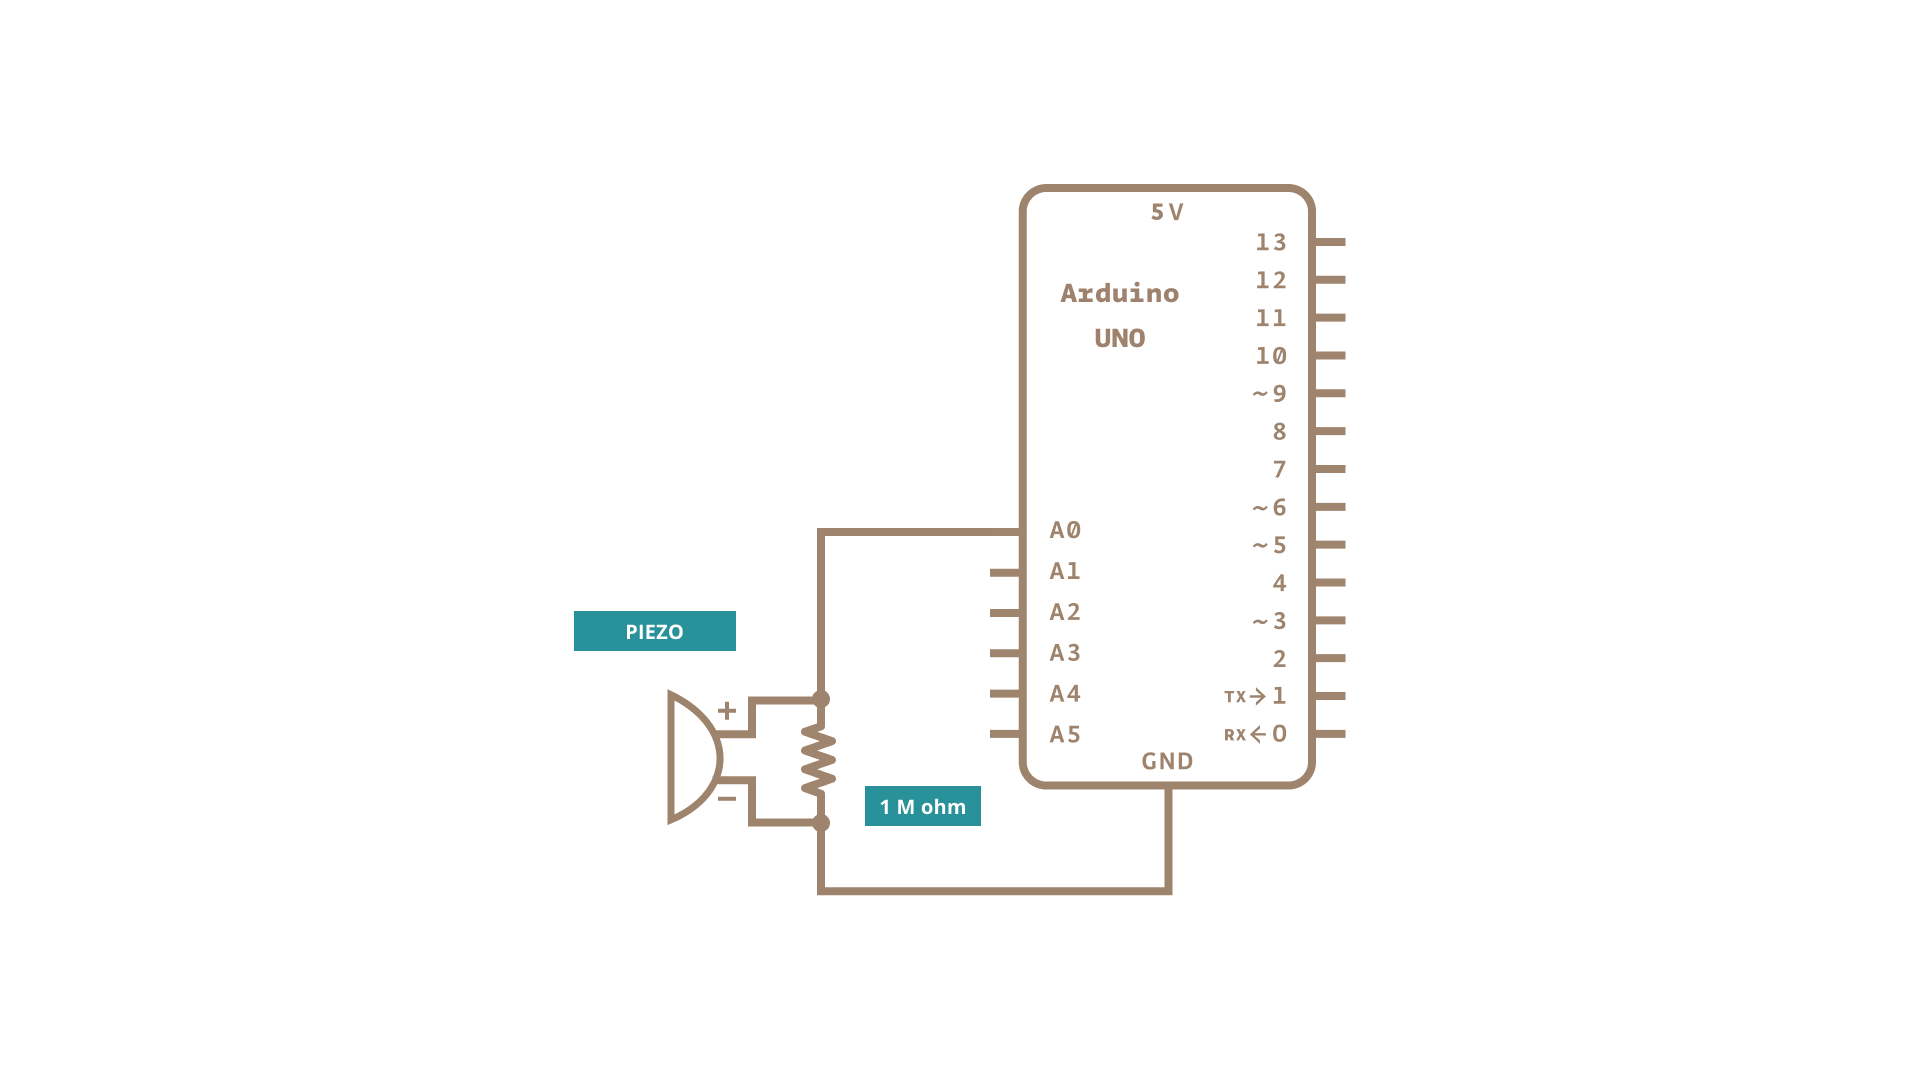
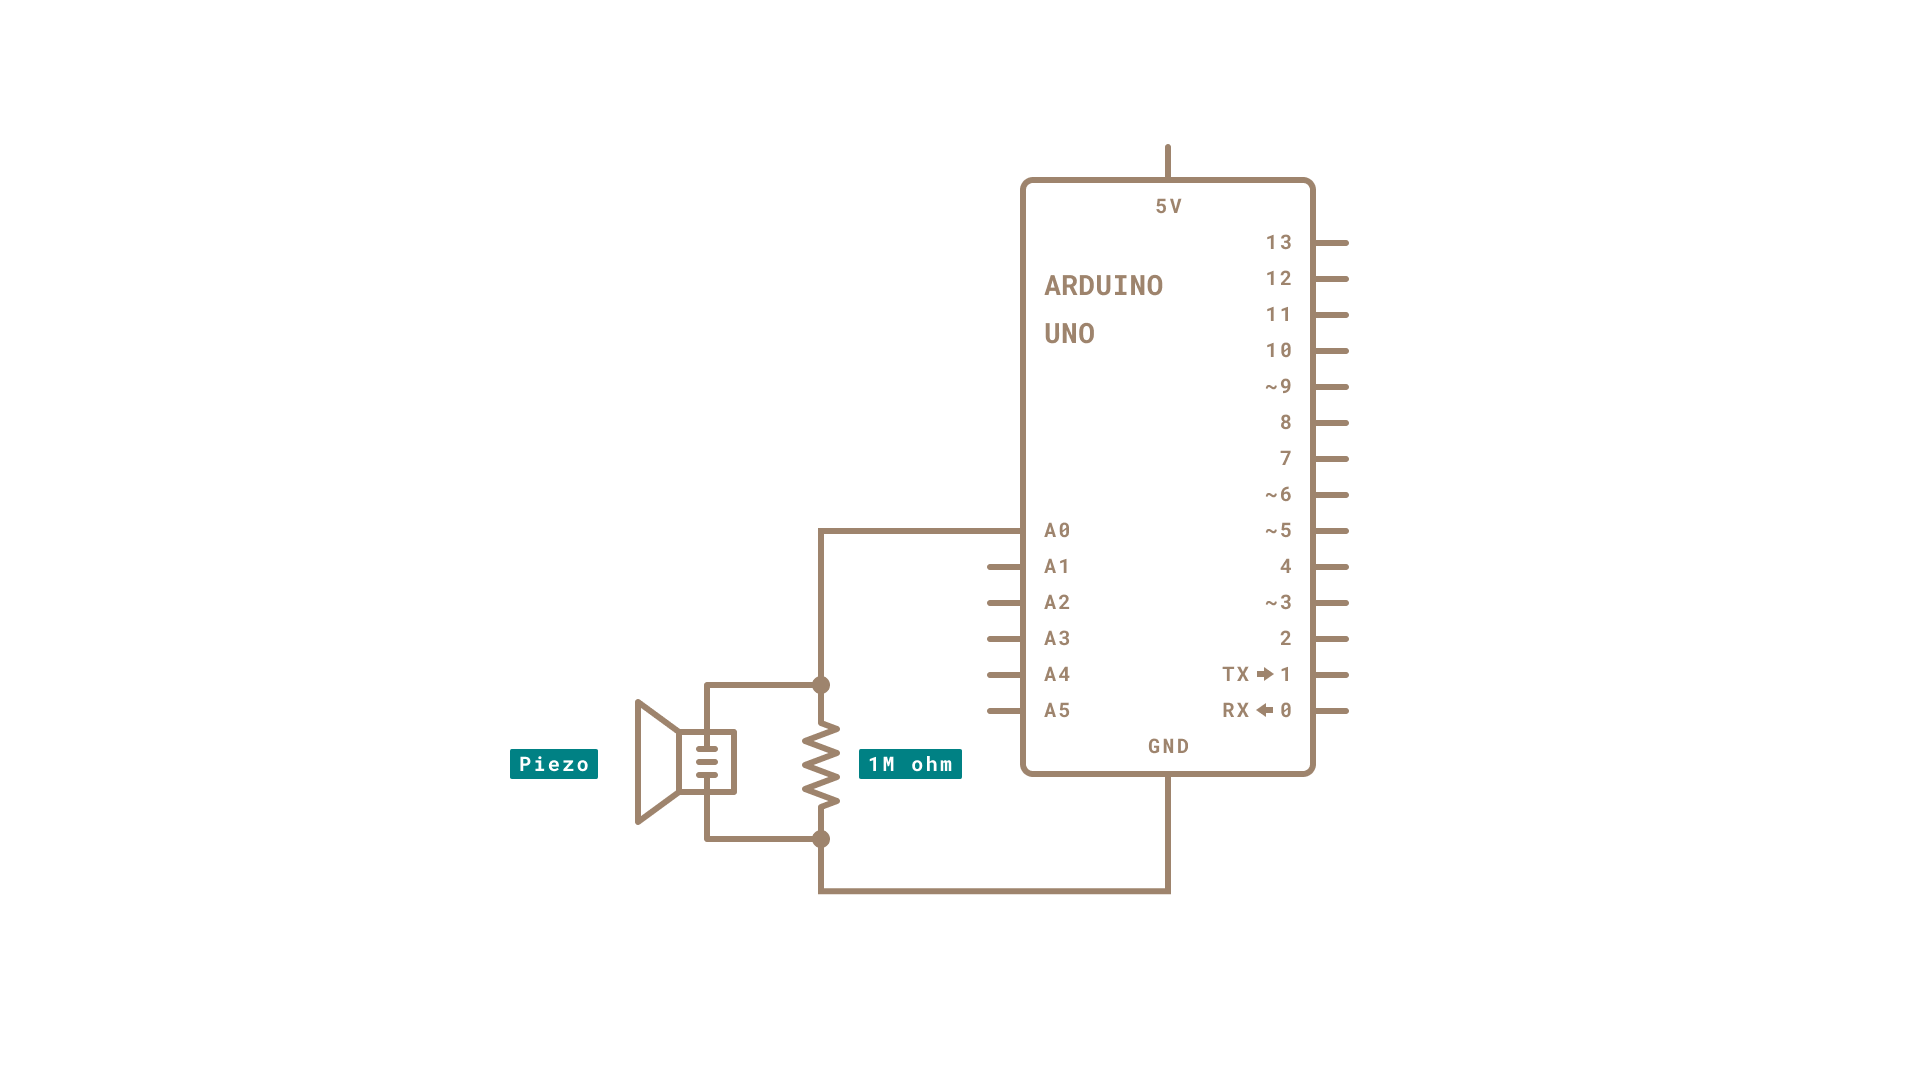
updated knock tutorial

diff --git a/content/built-in-examples/06.sensors/Knock/Knock.md b/content/built-in-examples/06.sensors/Knock/Knock.md
@@ -33,18 +33,16 @@ Open the serial monitor to see this text.
 
 Piezos are **polarized**, meaning that voltage passes through them (or out of them) in a specific direction. Connect the black wire (the lower voltage) to ground and the red wire (the higher voltage) to analog pin 0. Additionally, connect a 1-megohm resistor in parallel to the Piezo element to limit the voltage and current produced by the piezo and to protect the analog input.
 
-It is possible to acquire piezo elements without a plastic housing. These will  look like a metallic disc, and are easier to use as input sensors. PIezo sensors work best when firmly pressed against, taped, or glued their sensing surface.
-
+It is possible to acquire piezo elements without a plastic housing. These will  look like a metallic disc, and are easier to use as input sensors. Piezo sensors work best when firmly pressed against, taped, or glued their sensing surface.
 
 ![](assets/circuit.png)
 
 
 ### Schematic
 
+The piezo is attached to analog pin 0 with a 1 Megohm resistor in between the two legs. The placement of the resistor is used to save the piezo from damage from extra current. Without it, the analog pin might not be capable of reading the piezo's signal.
 
 ![](assets/schematic.png)
-
-*A Piezo to attached to analog pin 0 with a 1 Megohm resistor*
 
 ### Code
 
@@ -57,5 +55,3 @@ In the code below, the incoming piezo data is compared to a threshold value set 
 You can find more basic tutorials in the [built-in examples](/built-in-examples) section.
 
 You can also explore the [language reference](https://www.arduino.cc/reference/en/), a detailed collection of the Arduino programming language.
-
-*Last revision 2015/07/29 by SM*
